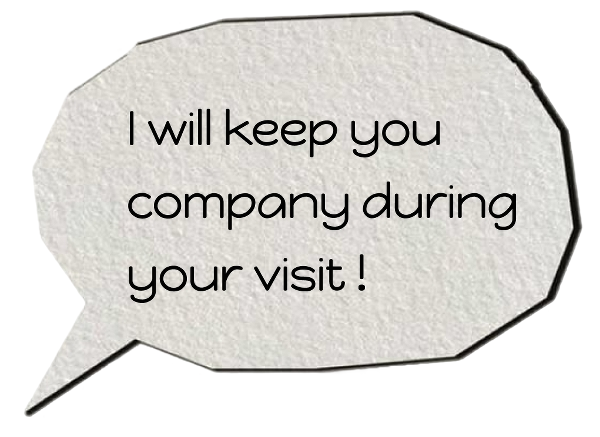
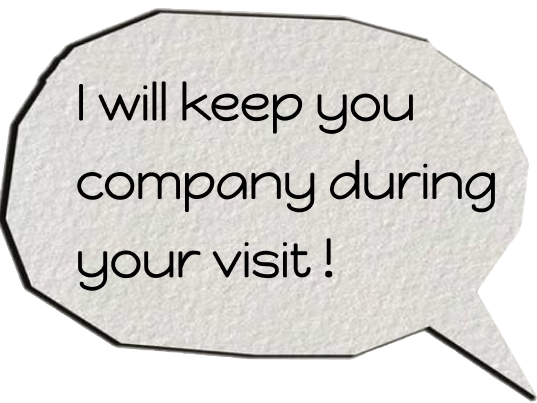
Mascot greetings fix

Changed region(s): [[0.0, 0.0, 1.0, 1.0], [0.149, 0.2084, 0.7747, 0.3573]]

diff --git a/components/Mascot.jsx b/components/Mascot.jsx
@@ -94,16 +94,16 @@ export function Mascot() {
         <img
           src={publicUrl('/assets/thea1.png')}
           alt="Hej fra Thea"
-          className="mascot-greeting pointer-events-none absolute -top-14 left-1/2 h-20 w-auto -translate-x-1/2 object-contain"
+          className="mascot-greeting pointer-events-none absolute -top-14 left-1/2 h-20 w-auto -translate-x-[100%] object-contain"
         />
       )}
       {showGreeting2 && (
         <img
           src={publicUrl('/assets/thea2.png')}
           alt="Jeg vil følge med dig rundt på siden i dag"
-          className="mascot-greeting pointer-events-none absolute -top-14 left-1/2 h-20 w-auto -translate-x-1/2 object-contain"
+          className="mascot-greeting pointer-events-none absolute -top-24 left-1/2 h-32 w-auto max-w-none -translate-x-[150%] object-contain"
         />
-      )}
+        )}
       {showHeart && (
         <img
           src={publicUrl('/assets/heart.png')}
